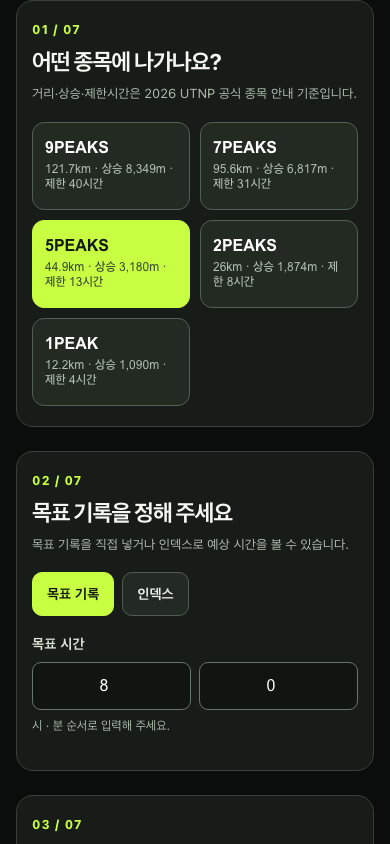
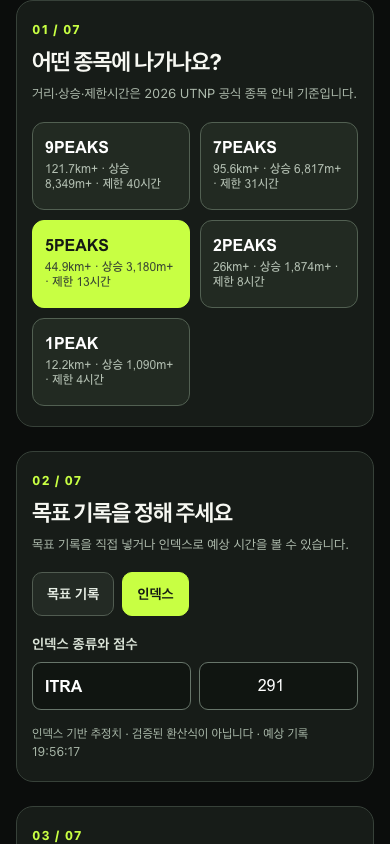
Fix UTNP event alignment and review findings

diff --git a/assets/utnp.js b/assets/utnp.js
@@ -11,11 +11,11 @@
   var $ = function (id) { return document.getElementById(id); };
   var safe = function (s) { return esc(String(s == null ? '' : s)); };
   var QUESTIONS = [
-    ['hunger', '배고픔은 언제 느끼나요?', ['늦게', '보통', '빨리']],
-    ['cramp', '쥐가 나는 편인가요?', ['거의 없음', '가끔', '자주']],
-    ['stomach', '젤을 먹을 때 속은 어떤가요?', ['편함', '가끔 더부룩', '자주 불편']],
-    ['forms', '좋아하는 형태를 골라 주세요', ['짜 먹는 젤', '마시는 액체형', '씹는 타입', '천연 원료']],
-    ['caffeine', '카페인은 어떻게 드시나요?', ['좋아요', '후반에만', '안 먹어요']]
+    ['hunger', '배고픔은 언제 느끼나요?'],
+    ['cramp', '쥐가 나는 편인가요?'],
+    ['stomach', '젤을 먹을 때 속은 어떤가요?'],
+    ['forms', '좋아하는 형태를 골라 주세요'],
+    ['caffeine', '카페인은 어떻게 드시나요?']
   ];
   function pressOptions(key, options, multi) {
     return '<div class="ut-choice-row" data-group="' + key + '">' + options.map(function (o) {
@@ -29,29 +29,44 @@
     var t = Date.now();
     return t >= Date.parse(state.event.startsAtKst) && t < Date.parse(state.event.endsAtKst);
   }
+  function clearExpiredPending() {
+    if (!configured() || Date.now() >= Date.parse(state.event.endsAtKst) || Date.now() >= Date.parse(state.event.contactPurgeOn + 'T00:00:00+09:00')) {
+      localStorage.removeItem('rp_utnp_pending');
+      return;
+    }
+    try {
+      var saved = JSON.parse(localStorage.getItem('rp_utnp_pending') || 'null');
+      if (saved && saved.rpc && saved.rpc.p_note) {
+        saved.rpc.p_note = null;
+        localStorage.setItem('rp_utnp_pending', JSON.stringify(saved));
+      }
+    } catch (e) { localStorage.removeItem('rp_utnp_pending'); }
+  }
   function render() {
     var event = state.event, live = active();
+    clearExpiredPending();
     document.documentElement.lang = 'ko';
+    var displayBrands = event.participatingBrands.slice().sort(function (a, b) { return a.localeCompare(b, 'ko-KR'); });
     var races = event.disciplines.map(function (d) {
       return '<button type="button" class="ut-course" data-discipline="' + d.id + '" aria-pressed="false">' + safe(d.name) +
-        '<small>' + d.distanceKm + 'km · 상승 ' + d.ascentM.toLocaleString('ko-KR') + 'm · 제한 ' + d.cutoffHours + '시간</small></button>';
+        '<small>' + d.distanceKm + 'km' + (d.estimated ? ' 약' : '+') + ' · 상승 ' + d.ascentM.toLocaleString('ko-KR') + 'm' + (d.estimated ? ' 약' : '+') + (d.cutoffHours ? ' · 제한 ' + d.cutoffHours + '시간' : '') + '</small></button>';
     }).join('');
     var survey = QUESTIONS.map(function (q, i) {
-      return '<fieldset class="ut-fieldset ut-group"><legend>' + (i + 1) + '. ' + q[1] + '</legend>' + pressOptions(q[0], q[2], q[0] === 'forms') + '</fieldset>';
+      return '<fieldset class="ut-fieldset ut-group"><legend>' + (i + 1) + '. ' + q[1] + '</legend>' + pressOptions(q[0], q[0] === 'forms' ? Object.keys(FORM_KEYS) : event.questions[q[0]]) + '</fieldset>';
     }).join('');
-    var brands = event.participatingBrands.map(function (b) { return '<button type="button" class="ut-choice" data-choice="' + safe(b) + '" aria-pressed="false">' + safe(b) + '</button>'; }).join('');
+    var brands = displayBrands.map(function (b) { return '<button type="button" class="ut-choice" data-choice="' + safe(b) + '" aria-pressed="false">' + safe(b) + '</button>'; }).join('');
     app.innerHTML = '<div class="ut-wrap"><div class="ut-brand"><strong>RACE PLANNER</strong><span>UTNP 2026</span></div>' +
       '<div class="ut-hero"><div class="ut-kicker">내 레이스를 미리 그려 보세요</div><h1>' + safe(event.copy.headline) + '</h1><p>' + safe(event.copy.intro) + '</p></div>' +
       section('01', '어떤 종목에 나가나요?', '<p class="ut-sub">거리·상승·제한시간은 2026 UTNP 공식 종목 안내 기준입니다.</p><div class="ut-course-grid">' + races + '</div>', 'ut-step-course') +
       section('02', '목표 기록을 정해 주세요', '<p class="ut-sub">목표 기록을 직접 넣거나 인덱스로 예상 시간을 볼 수 있습니다.</p>' +
         pressOptions('goalMode', ['목표 기록', '인덱스']) +
         '<div id="ut-goal-manual"><div class="ut-field"><label for="ut-hours">목표 시간</label><div style="display:flex;gap:8px"><input id="ut-hours" type="number" min="0" max="72" inputmode="numeric" value="8" aria-label="목표 시간, 시"><input id="ut-minutes" type="number" min="0" max="59" inputmode="numeric" value="0" aria-label="목표 시간, 분"></div><div class="ut-hint">시 · 분 순서로 입력해 주세요.</div></div></div>' +
-        '<div id="ut-goal-index" class="ut-hidden"><div class="ut-field"><label for="ut-index-value">인덱스 종류와 점수</label><div style="display:flex;gap:8px"><select id="ut-index-kind" aria-label="인덱스 종류"><option>ITRA</option><option>UTMB</option></select><input id="ut-index-value" type="number" min="100" max="1000" inputmode="numeric" placeholder="예: 600" aria-label="인덱스 점수"></div></div><p class="ut-hint" id="ut-index-estimate">인덱스 기반 예상치입니다. 실제 기록과 다를 수 있습니다.</p></div>', 'ut-step-goal') +
+        '<div id="ut-goal-index" class="ut-hidden"><div class="ut-field"><label for="ut-index-value">인덱스 종류와 점수</label><div style="display:flex;gap:8px"><select id="ut-index-kind" aria-label="인덱스 종류"><option>ITRA</option><option>UTMB</option></select><input id="ut-index-value" type="number" min="1" max="1000" inputmode="numeric" placeholder="예: 600" aria-label="인덱스 점수"></div></div><p class="ut-hint" id="ut-index-estimate">' + safe(event.indexNote) + '</p></div>', 'ut-step-goal') +
       section('03', '내 레이스 정보', '<p class="ut-sub">계산과 부스 카드를 위한 선택입니다.</p>' +
-        '<div class="ut-group"><div class="ut-label">성별</div>' + pressOptions('gender', ['남성', '여성']) + '</div>' +
-        '<div class="ut-group"><div class="ut-label">나이대</div>' + pressOptions('age', ['20대', '30대', '40대', '50대', '60대 이상']) + '</div>' +
-        '<div class="ut-group"><div class="ut-label">이번 레이스 계획</div>' + pressOptions('racePlan', ['완주', '기록', '경쟁']) + '</div>' +
-        '<div class="ut-group"><div class="ut-label">땀은 어느 정도 나나요?</div>' + pressOptions('sweat', ['적음', '보통', '많음']) + '</div>' +
+        '<div class="ut-group"><div class="ut-label">성별</div>' + pressOptions('gender', event.questions.gender) + '</div>' +
+        '<div class="ut-group"><div class="ut-label">나이대</div>' + pressOptions('age', event.questions.age) + '</div>' +
+        '<div class="ut-group"><div class="ut-label">이번 레이스 계획</div>' + pressOptions('racePlan', event.questions.race_plan) + '</div>' +
+        '<div class="ut-group"><div class="ut-label">땀은 어느 정도 나나요?</div>' + pressOptions('sweat', event.questions.sweat) + '</div>' +
         '<label class="ut-consent"><input id="ut-weather" type="checkbox"><span>대회 날씨로 페이스·보급 보정 (선택)</span></label>' +
         '<button class="ut-primary" id="ut-build" type="button">내 보급 플랜 보기</button><p class="ut-error" id="ut-build-error" role="alert"></p>', 'ut-step-profile') +
       section('04', '내 보급 플랜', '<p class="ut-sub">GPX 고도와 목표 시간을 바탕으로 계산했습니다.</p><div id="ut-plan-content">위에서 종목과 목표를 고른 뒤 플랜을 열어 주세요.</div>', 'ut-step-plan') +
@@ -59,8 +74,8 @@
       (live ? section('06', '부스 설문', '<p class="ut-sub">문항을 한 화면에서 골라 주세요. 연락처는 카드가 나온 뒤 선택할 수 있습니다.</p>' + survey +
         '<div class="ut-group"><div class="ut-label">써 본 브랜드</div><div class="ut-choice-row ut-brand-list" data-group="tried">' + brands + '</div></div>' +
         '<div class="ut-group"><div class="ut-label">궁금한 브랜드</div><div class="ut-choice-row ut-brand-list" data-group="curious">' + brands + '</div></div>' +
-        '<div class="ut-group"><div class="ut-label">제일 좋아하는 브랜드 (선택)</div>' + pressOptions('favorite', event.participatingBrands.concat(['그 밖의 브랜드'])) + '<div class="ut-field ut-hidden" id="ut-other-wrap"><label for="ut-other-brand">그 밖의 브랜드 이름</label><input id="ut-other-brand" maxlength="20"><div class="ut-hint">이름은 40자 글 칸에 함께 보관합니다.</div></div></div>' +
-        '<div class="ut-group"><div class="ut-label">고른 이유 (선택)</div>' + pressOptions('reasons', ['맛', '속 편함', '함량', '형태', '가격', '써 봐서']) + '</div>' +
+        '<div class="ut-group"><div class="ut-label">제일 좋아하는 브랜드 (선택)</div>' + pressOptions('favorite', displayBrands.concat(['그 밖의 브랜드'])) + '<div class="ut-field ut-hidden" id="ut-other-wrap"><label for="ut-other-brand">그 밖의 브랜드 이름</label><input id="ut-other-brand" maxlength="20"><div class="ut-hint">이름은 40자 글 칸에 함께 보관합니다.</div></div></div>' +
+        '<div class="ut-group"><div class="ut-label">고른 이유 (선택)</div>' + pressOptions('reasons', event.reasonOptions) + '</div>' +
         '<div class="ut-field"><label for="ut-note">더 적고 싶은 말 (선택 · 40자)</label><input id="ut-note" maxlength="40" placeholder="이름·전화·건강 상태는 적지 마세요"></div>' +
         '<button class="ut-primary" id="ut-submit" type="button" disabled>부스 카드 만들기</button><p class="ut-status" id="ut-submit-status" role="status"></p><button class="ut-secondary ut-hidden" id="ut-retry" type="button">보관한 답 다시 보내기</button>', 'ut-step-survey') : '') +
       (live ? section('07', '부스 카드', '<p class="ut-sub">직원에게 이 카드를 보여 주세요.</p><div id="ut-booth-content">설문을 보내면 카드가 나옵니다.</div>' +
@@ -68,7 +83,7 @@
         '<label class="ut-consent"><input id="ut-consent-required" type="checkbox"><span>연락처 수집·이용에 동의합니다. 목적: 플랜 재발송·행사 안내. 항목: 입력한 연락처. 보관: 2026년 11월 30일까지.</span></label>' +
         '<label class="ut-consent"><input id="ut-consent-marketing" type="checkbox"><span>마케팅 정보 수신에 동의합니다. (선택)</span></label>' +
         '<button class="ut-secondary" id="ut-save-contact" type="button">연락처 저장</button><p class="ut-status" id="ut-contact-status" role="status"></p></div>', 'ut-step-booth') : '') +
-      (!live ? '<p class="ut-hint" id="ut-event-closed">' + safe(event.copy.closed) + '</p>' : '') + '</div>';
+      (!live ? '<p class="ut-hint" id="ut-event-closed">' + safe(Date.now() < Date.parse(event.startsAtKst) ? event.copy.opens : event.copy.closed) + '</p>' : '') + '</div>';
     bind();
   }
   function selectButton(button) {
@@ -101,7 +116,7 @@
       $('ut-submit').addEventListener('click', submit);
       $('ut-retry').addEventListener('click', retryPending);
       $('ut-save-contact').addEventListener('click', saveContact);
-      try { var saved = JSON.parse(localStorage.getItem('rp_utnp_pending') || 'null'); if (saved && saved.rpc) { $('ut-submit-status').textContent = '기기에 보관한 답이 있습니다.'; $('ut-retry').classList.remove('ut-hidden'); } } catch (e) {}
+      try { var saved = JSON.parse(localStorage.getItem('rp_utnp_pending') || 'null'); if (saved && saved.rpc) { $('ut-submit-status').textContent = '기기에 보관한 답이 있습니다.'; $('ut-retry').classList.remove('ut-hidden'); } } catch (e) { localStorage.removeItem('rp_utnp_pending'); }
     }
   }
   function chooseCourse(id) {
@@ -123,13 +138,16 @@
       return Number.isInteger(h) && h >= 0 && h <= 72 && Number.isInteger(m) && m >= 0 && m < 60 ? h * 3600 + m * 60 : NaN;
     }
     var kind = $('ut-index-kind').value, score = Number($('ut-index-value').value);
-    if (!state.discipline || !state.answers.gender || !Number.isFinite(score) || score < 100 || score > 1000) return NaN;
+    if (!state.discipline || !state.answers.gender || !Number.isFinite(score) || score > 1000) return NaN;
     var base = state.discipline.indexReference[state.answers.gender === '여성' ? 'female' : 'male'];
+    var minScore = Math.ceil(seconds(base) * 1000 * state.event.indexFactors[kind] / (72 * 3600));
+    $('ut-index-value').min = String(minScore);
+    if (score < minScore) return NaN;
     return Math.round(seconds(base) * 1000 * state.event.indexFactors[kind] / score);
   }
   function updateEstimate() {
     var s = targetSeconds();
-    $('ut-index-estimate').textContent = '인덱스 기반 예상치' + (Number.isFinite(s) ? ': ' + fmt(s) : '') + '. 과거 우승 기록을 바탕으로 한 근사치입니다.';
+    $('ut-index-estimate').textContent = state.event.indexNote + (Number.isFinite(s) ? ' · 예상 기록 ' + fmt(s) : '');
   }
   function updateSubmit() {
     var b = $('ut-submit'); if (!b) return;
@@ -148,10 +166,8 @@
     var chosenDiscipline = state.discipline;
     var done = function (weather) {
       if (state.discipline !== chosenDiscipline) return;
-      var p = buildPlan(course, s, 'trail', level, weather);
-      var sweat = SWEAT_PER_H[state.answers.sweat];
-      if (sweat) { p.waterH = sweat[0]; p.naH = sweat[1]; }
-      p.fluidTot = Math.round(p.Tadj / 3600 * p.waterH); p.naTot = Math.round(p.Tadj / 3600 * p.naH);
+      var p = buildPlan(course, s, 'trail', level, weather, SWEAT_PER_H[state.answers.sweat]);
+      p.indexBased = app.querySelector('[data-group="goalMode"] [aria-pressed="true"]').dataset.choice === '인덱스';
       state.plan = p; window.PLAN = p; window.UTNP_DISCIPLINE = state.discipline.name;
       renderPlan(); renderShare(); updateSubmit();
       $('ut-step-plan').scrollIntoView({ behavior: 'smooth', block: 'start' });
@@ -172,7 +188,7 @@
       var mark = p.marks.find(function (m) { return Math.abs(m.km - k.distEnd / 1000) < 0.55; });
       return '<tr class="' + (aid ? 'ut-aid' : '') + '"><td>' + (aid ? safe(aid.name) + ' · ' : '') + k.km + 'km</td><td>' + pace(k.pace) + '</td><td>' + fmt(k.cum) + '</td><td>' + (mark ? '보급 · 물 ' + mark.water + 'ml' : '') + '</td></tr>';
     }).join('');
-    $('ut-plan-content').innerHTML = '<div class="ut-total">총 ' + total.toLocaleString('ko-KR') + 'g <small>25g 젤 기준 약 ' + gel + '개</small></div>' +
+    $('ut-plan-content').innerHTML = (p.indexBased ? '<p class="ut-hint">' + safe(state.event.indexNote.replace('추정치', '예상치')) + '</p>' : '') + '<div class="ut-total">총 ' + total.toLocaleString('ko-KR') + 'g <small>25g 젤 기준 약 ' + gel + '개</small></div>' +
       '<div class="ut-metrics"><div><small>탄수화물 / 시간</small><b>' + p.carbH + 'g</b></div><div><small>물 / 시간</small><b>' + p.waterH + 'ml</b></div><div><small>나트륨 / 시간</small><b>' + p.naH + 'mg</b></div></div>' +
       '<svg class="ut-elev" id="ut-elevation" role="img" aria-label="GPX 고도표" viewBox="0 0 500 100" preserveAspectRatio="none"></svg>' +
       '<div class="ut-table-wrap"><table class="ut-table"><thead><tr><th>구간·보급소</th><th>페이스</th><th>도착</th><th>보급 시점</th></tr></thead><tbody>' + rows + '</tbody></table></div>' +
@@ -204,7 +220,7 @@
     var answers = { discipline: state.discipline.id, gender: state.answers.gender, age: state.answers.age,
       race_plan: state.answers.racePlan, sweat: state.answers.sweat, hunger: state.answers.hunger,
       cramp: state.answers.cramp, stomach: state.answers.stomach, caffeine: state.answers.caffeine };
-    (state.answers.forms || []).forEach(function (form) { answers[FORM_KEYS[form]] = '선택'; });
+    (state.answers.forms || []).forEach(function (form) { answers[FORM_KEYS[form]] = state.event.questions[FORM_KEYS[form]][0]; });
     state.event.participatingBrands.forEach(function (brand) {
       answers[state.event.brandAnswerKeys[brand]] = state.curious.includes(brand) ? '궁금해요' : state.tried.includes(brand) ? '써 봤어요' : '처음 봐요';
     });
@@ -233,24 +249,30 @@
     var status = $('ut-submit-status'), button = $('ut-submit');
     var body;
     try { body = payload(null); } catch (e) { status.textContent = e.message; return; }
+    if (!configured()) { status.textContent = '설문 연결 준비 중입니다. 잠시 뒤 다시 시도해 주세요.'; return; }
     status.textContent = '답을 보내고 있습니다.'; button.disabled = true;
-    localStorage.setItem('rp_utnp_pending', JSON.stringify({ rpc: body, disciplineId: state.discipline.id,
-      plan: { goalSec: state.plan.goalSec, carbH: state.plan.carbH }, answers: state.answers,
-      tried: state.tried, curious: state.curious, favorite: state.favorite, reasons: state.reasons }));
     rpc(body).then(function (v) {
       state.cardNo = v.card_no; localStorage.removeItem('rp_utnp_pending');
       $('ut-retry').classList.add('ut-hidden');
       status.textContent = '부스 카드를 만들었습니다.'; showBooth();
       $('ut-step-booth').scrollIntoView({ behavior: 'smooth' });
-    }).catch(function () { status.textContent = '잠시 뒤 다시 시도해 주세요. 답은 이 기기에 보관했습니다.'; $('ut-retry').classList.remove('ut-hidden'); })
+    }).catch(function () {
+      if (!active()) { clearExpiredPending(); status.textContent = '부스 기간이 끝났습니다.'; return; }
+      var retryBody = Object.assign({}, body, { p_note: null });
+      localStorage.setItem('rp_utnp_pending', JSON.stringify({ rpc: retryBody, disciplineId: state.discipline.id,
+        plan: { goalSec: state.plan.goalSec, carbH: state.plan.carbH }, answers: state.answers,
+        tried: state.tried, curious: state.curious, favorite: state.favorite, reasons: state.reasons }));
+      status.textContent = '잠시 뒤 다시 시도해 주세요. 답은 이 기기에 보관했습니다.'; $('ut-retry').classList.remove('ut-hidden');
+    })
       .finally(function () { button.disabled = false; });
   }
   function retryPending() {
     var status = $('ut-submit-status'), saved;
+    if (!active()) { clearExpiredPending(); status.textContent = '부스 기간이 끝났습니다.'; return; }
     try { saved = JSON.parse(localStorage.getItem('rp_utnp_pending') || 'null'); } catch (e) {}
     if (!saved || !saved.rpc) { status.textContent = '보관한 답이 없습니다.'; return; }
     status.textContent = '보관한 답을 보내고 있습니다.';
-    rpc(saved.rpc).then(function (v) {
+    rpc(Object.assign({}, saved.rpc, { p_note: null })).then(function (v) {
       state.discipline = state.event.disciplines.find(function (d) { return d.id === saved.disciplineId; });
       state.plan = saved.plan; state.answers = saved.answers; state.tried = saved.tried;
       state.curious = saved.curious; state.favorite = saved.favorite; state.reasons = saved.reasons;
@@ -301,6 +323,9 @@
       .catch(function () { status.textContent = '잠시 뒤 다시 시도해 주세요.'; });
   }
   fetch('/events/utnp.json').then(function (r) { if (!r.ok) throw Error('event'); return r.json(); })
-    .then(function (event) { state.event = event; render(); })
+    .then(function (event) { state.event = event; render();
+      var untilEnd = Date.parse(event.endsAtKst) - Date.now();
+      if (untilEnd > 0) setTimeout(clearExpiredPending, Math.min(untilEnd + 100, 2147483647));
+    })
     .catch(function () { app.innerHTML = '<div class="ut-wrap"><h1>UTNP 플랜을 열 수 없습니다.</h1><p>잠시 뒤 다시 시도해 주세요.</p></div>'; });
 })();

diff --git a/gpx/index.html b/gpx/index.html
@@ -875,7 +875,7 @@ function getWeather(lat,lon,dateStr,startH){
 }
 
 /* ================= plan builder ================= */
-function buildPlan(course,goalSec,type,level,weather){
+function buildPlan(course,goalSec,type,level,weather,sweatPerHour){
   var pen=weather?heatPenaltyPct(weather.feel):0;
   var Tadj=goalSec*(1+pen/100);
   var W=0,wseg=[];
@@ -899,6 +899,7 @@ function buildPlan(course,goalSec,type,level,weather){
   var feel=weather?weather.feel:15;
   var waterH=clamp(450+Math.max(0,feel-15)*30,400,1000);
   var naH=clamp(350+Math.max(0,feel-15)*35,300,1200);
+  if(sweatPerHour){waterH=sweatPerHour[0];naH=sweatPerHour[1];}
   var gels=Math.max(0,Math.round(Th*carbH/25));
   var fluidTot=Math.round(Th*waterH);
   var naTot=Math.round(Th*naH);
@@ -1165,7 +1166,10 @@ function buildShareCard(P){
   var ko=window.LANG==="ko";
   var L=ko?{plan:"GPX 레이스 플랜",goal:"목표 시간",dist:"거리",asc:"누적 상승",pace:"평균 페이스",fuel:"보급 플랜",carb:"탄수/h",na:"나트륨/h",every:"보급 간격",umin:"분",f1:"무료 경사보정 레이스 플래너",f2:"GPX 올리면 무료로 플랜 생성"}
         :{plan:"GPX RACE PLAN",goal:"GOAL TIME",dist:"DISTANCE",asc:"ASCENT D+",pace:"AVG PACE",fuel:"FUELING PLAN",carb:"CARBS/H",na:"SODIUM/H",every:"FUEL EVERY",umin:"min",f1:"Free hill-adjusted race planner",f2:"Upload your GPX · get your plan free"};
-  if(document.documentElement.classList.contains('utnp')){L.f1='내 UTNP 레이스 플랜';L.f2='코스·목표 기록으로 만든 보급 계획';}
+  if(document.documentElement.classList.contains('utnp')){
+    L.f1='내 UTNP 레이스 플랜';L.f2=P.indexBased?'인덱스 기반 예상치 · 검증된 환산식이 아닙니다':'코스·목표 기록으로 만든 보급 계획';
+    if(P.indexBased)L.goal='예상 기록(인덱스)';
+  }
   x.fillStyle="#0a0c10";x.fillRect(0,0,W,H);x.textBaseline="alphabetic";
   x.fillStyle="#c8ff43";x.font="700 34px system-ui,sans-serif";x.textAlign="left";x.fillText(document.documentElement.classList.contains('utnp')?'#UTNP · '+(window.UTNP_DISCIPLINE||''):L.plan,M,150);
   x.fillStyle="#8b97a6";x.font="600 30px system-ui,sans-serif";x.textAlign="right";x.fillText("@athletespick",W-M,150);
@@ -1196,7 +1200,7 @@ function buildShareCard(P){
   x.fillStyle="#5a6573";x.font="600 28px system-ui,sans-serif";x.fillText(L.f2,W/2,1684);
   return c;}
 function rpCaption(P){var dist=(P.course.total/1000).toFixed(1);
-  if(document.documentElement.classList.contains('utnp'))return '내 UTNP 플랜 ⛰ '+(window.UTNP_DISCIPLINE||'')+' · 목표 '+fmt(P.goalSec)+' · 시간당 탄수화물 '+P.carbH+'g #UTNP @athletespick';
+  if(document.documentElement.classList.contains('utnp'))return '내 UTNP 플랜 ⛰ '+(window.UTNP_DISCIPLINE||'')+(P.indexBased?' · 인덱스 기반 예상치 · 예상 기록 ':' · 목표 ')+fmt(P.goalSec)+' · 시간당 탄수화물 '+P.carbH+'g #UTNP @athletespick';
   return (window.LANG==="ko")
     ?"내 트레일 플랜 ⛰ "+dist+"km · 목표 "+fmt(P.goalSec)+" · 보급 "+P.carbH+"g/h — 나도 만들기 raceplanner.athletespick.com/gpx #레이스플래너챌린지 #트레일러닝 @athletespick"
     :"My trail plan ⛰ "+dist+"km · goal "+fmt(P.goalSec)+" · fuel "+P.carbH+"g/h — build yours at raceplanner.athletespick.com/gpx #raceplanner #trailrunning @athletespick";}

diff --git a/tools/rp_lint.py b/tools/rp_lint.py
@@ -193,11 +193,19 @@ def check_i18n_nesting(path, text):
 
 def check_event_banned(path, text):
     """UTNP first-party runner copy must not contain efficacy or sales words."""
-    if rel(path) not in {"assets/utnp.js", "events/utnp.json"}:
+    file = rel(path)
+    if file not in {"assets/utnp.js", "events/utnp.json", "gpx/index.html"}:
         return []
-    return [(line_of(text, m.start()), m.group())
+    if file == "gpx/index.html":
+        # Only event-specific share card and caption copy belongs to this rule.
+        chunks = [(m.group(), m.start()) for m in re.finditer(
+            r"if\(document\.documentElement\.classList\.contains\('utnp'\)\)(?:\{[^}]*\}|[^\n]*)", text)]
+    else:
+        chunks = [(text, 0)]
+    return [(line_of(text, base + m.start()), m.group())
+            for chunk, base in chunks
             for word in BANNED_WORDS
-            for m in re.finditer(re.escape(word), text)]
+            for m in re.finditer(re.escape(word), chunk)]
 
 
 CHECKS = {
@@ -217,7 +225,7 @@ MUST_BE_ZERO = {"cycle", "i18n", "banned"}
 
 def run(selected):
     targets = html_files() + css_files()
-    event_targets = [os.path.join(ROOT, p) for p in ("assets/utnp.js", "events/utnp.json") if os.path.exists(os.path.join(ROOT, p))]
+    event_targets = [os.path.join(ROOT, p) for p in ("assets/utnp.js", "events/utnp.json", "gpx/index.html") if os.path.exists(os.path.join(ROOT, p))]
     results = {}
     for key in selected:
         label, fn = CHECKS[key]

diff --git a/tools/test_rp_lint_banned.py b/tools/test_rp_lint_banned.py
@@ -1,0 +1,15 @@
+#!/usr/bin/env python3
+"""Red fixture: each forbidden word must fail the UTNP copy check."""
+from pathlib import Path
+from rp_lint import ROOT, check_event_banned
+
+fixture = (Path(__file__).parent / "fixtures/utnp_banned_copy.txt").read_text(encoding="utf-8")
+for path in ("assets/utnp.js", "events/utnp.json"):
+    hits = check_event_banned(str(Path(ROOT) / path), fixture)
+    assert {word for _, word in hits} >= {"추천", "예방", "보호"}, (path, hits)
+
+gpx = "if(document.documentElement.classList.contains('utnp')){L.f2='추천·예방·보호';}\n"
+hits = check_event_banned(str(Path(ROOT) / "gpx/index.html"), gpx)
+assert {word for _, word in hits} >= {"추천", "예방", "보호"}, hits
+assert not check_event_banned(str(Path(ROOT) / "gpx/index.html"), "var unrelated='추천';\n")
+print("PASS UTNP 금칙어 빨간 픽스처와 공유 카드 검사")
